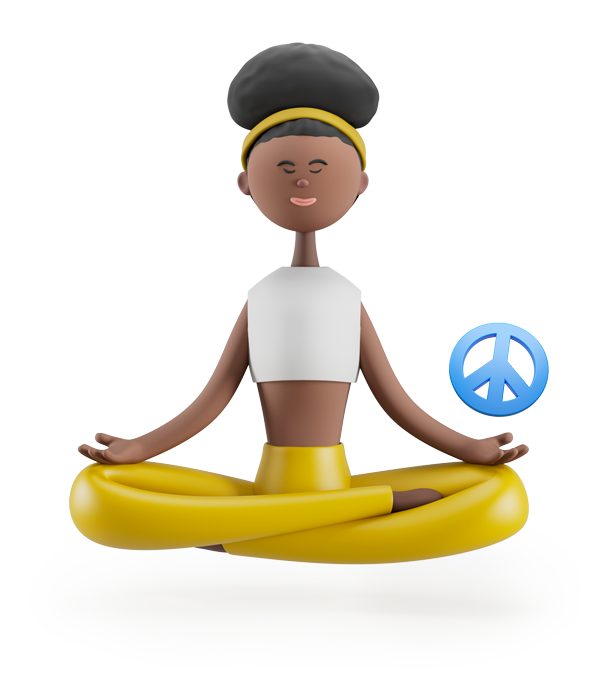
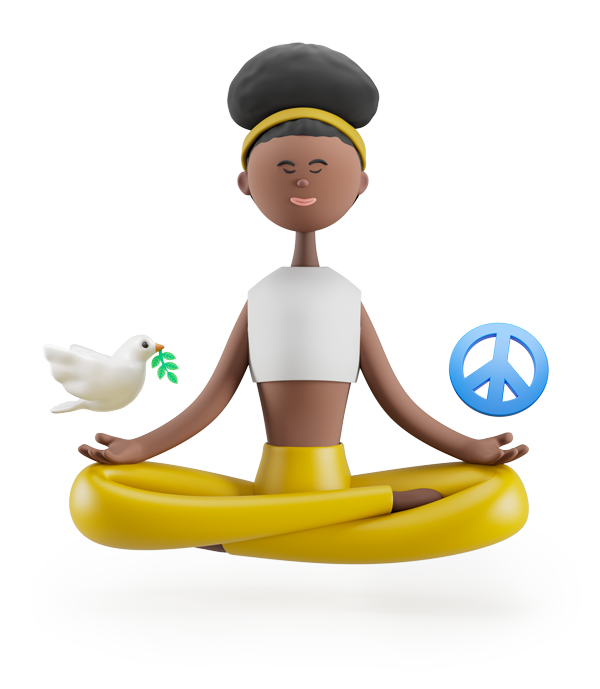
images added to About personality and how it works component, images hiden by display non for mobile version

Changed region(s): [[0.06, 0.4877, 0.3, 0.6096]]

diff --git a/src/pages/ResultsPage/index.jsx b/src/pages/ResultsPage/index.jsx
@@ -22,7 +22,11 @@ export const ResultsPage = () => {
     <div className="resultCard">
       <h4 className="resultCard__title">{bestResult.result}</h4>
       <p className="resultCard__description">{bestResult.description}</p>
-      <img src={bestResult.image} alt={bestResult.image} />
+      <img
+        className="resultCard__img"
+        src={bestResult.image}
+        alt={bestResult.image}
+      />
       <Button type={'secondary'}>
         <div className="buttonShare">
           <div className="buttonShare__image">

diff --git a/src/components/AboutPersonality/index.jsx b/src/components/AboutPersonality/index.jsx
@@ -1,5 +1,6 @@
 import { Button } from '../Button';
 import './style.css';
+import ideaMan from './idea.png';
 
 export const AboutPersonality = () => {
   return (
@@ -15,6 +16,10 @@ export const AboutPersonality = () => {
       <Button to="/personality" type={'primary'}>
         Zjistit více
       </Button>
+
+      <div className="aboutPersonality__img">
+        <img src={ideaMan} alt="Man with an idea" />
+      </div>
     </section>
   );
 };

diff --git a/src/components/HowItWorks/index.jsx b/src/components/HowItWorks/index.jsx
@@ -1,4 +1,5 @@
 import './style.css';
+import chartCharacter from './chart.png';
 
 export const HowItWorks = () => {
   return (
@@ -23,6 +24,9 @@ export const HowItWorks = () => {
             </p>
           </li>
         </ol>
+      </div>
+      <div className="howItWorks__img">
+        <img src={chartCharacter} alt="Character with a chart" />
       </div>
     </section>
   );

diff --git a/src/pages/ResultsPage/style.css b/src/pages/ResultsPage/style.css
@@ -11,6 +11,10 @@
   align-items: center;
 }
 
+.resultCard__img {
+  display: none;
+}
+
 
 .buttonShare {
   display: flex;

diff --git a/src/components/AboutPersonality/style.css b/src/components/AboutPersonality/style.css
@@ -7,3 +7,7 @@
 .aboutPersonality__info {
   margin-bottom: 20px;
 }
+
+.aboutPersonality__img {
+  display: none;
+}

diff --git a/src/components/HowItWorks/style.css b/src/components/HowItWorks/style.css
@@ -33,3 +33,7 @@
 .howItWorks__text {
   overflow: hidden;
 }
+
+.howItWorks__img {
+  display: none;
+}
